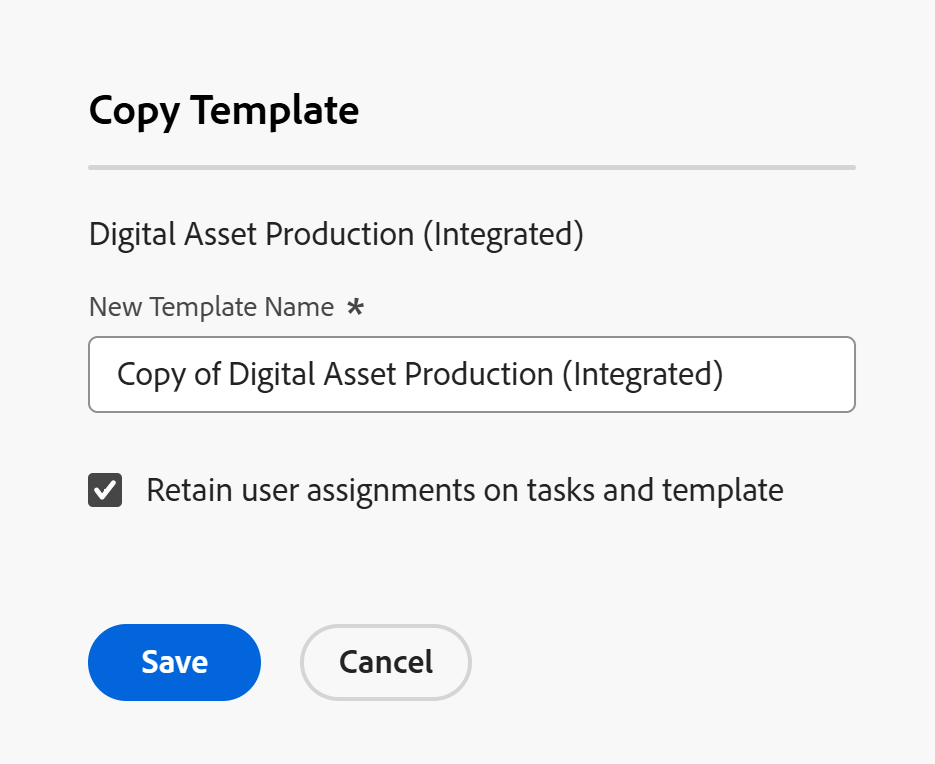
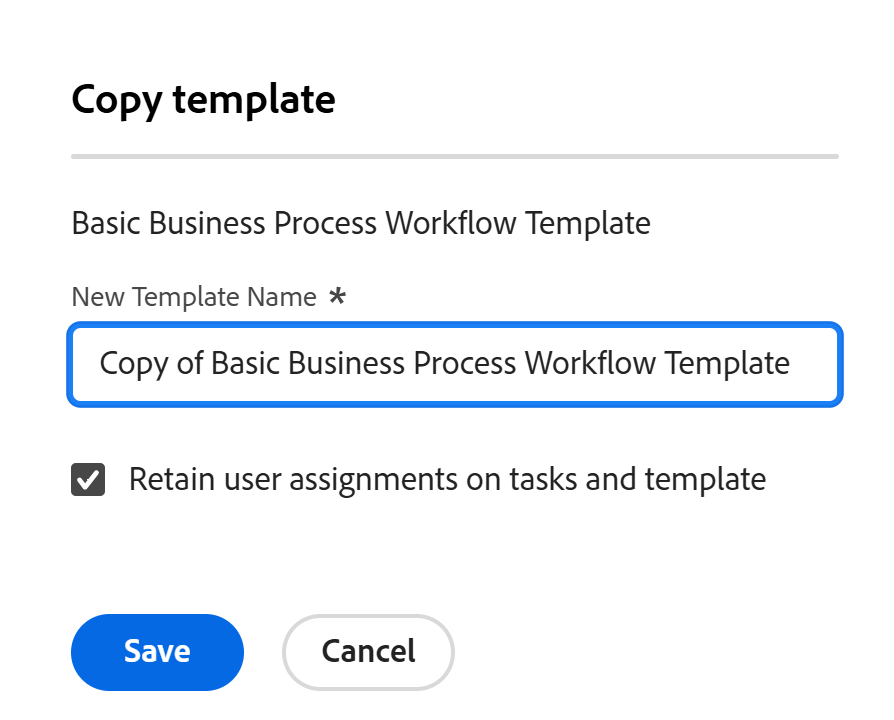
commit-aw-22-may

diff --git a/help/quicksilver/planning/general/planning-best-practices.md b/help/quicksilver/planning/general/planning-best-practices.md
@@ -207,12 +207,12 @@ Use the sharing feature to give appropriate permissions to employees to views an
     >
     >Right now, we don't have specific permissions for record types or records, so this means that all records in any of the record types are visible if you grant someone **View** access to the workspace.  
 
-<!--
+
 #### How should I manage permissions to record types?
 
 * ✅ Remember that users with Manage permissions to workspaces cannot have their permissions lowered for the record type. They will also inherit Manage permissions to the record type. You cannot give a user Manage permissions on the workspace but Contribute or View permissions on the record type. 
 * ✅ If you want users to have a lower permission level (for example, View permissions) for the record type than they have for the workspace, we recommend giving them Contribute permissions to the workspace. You can then, give them View permissions to the record type. 
--->
+* Removing a user from the record type's permissions still gives them at least View permissions to the workspace.
 
 #### How should I manage permissions to views? 
 

diff --git a/help/quicksilver/manage-work/projects/create-and-manage-templates/copy-template.md b/help/quicksilver/manage-work/projects/create-and-manage-templates/copy-template.md
@@ -68,7 +68,6 @@ The following items are never copied from an existing template to a new one:
 
 ## Copy a template
 
-
 <!--ensure steps and casing on the fields and buttons is accurate with unshim-->
 
 1. Go to the template that you want to copy.
@@ -76,11 +75,11 @@ The following items are never copied from an existing template to a new one:
 
    The **Copy Template** box opens.
 
-   <!--![Copy template box](assets/copy-template-box.png)-->
+   ![Copy template box](assets/copy-template-box.png)
 
 1. Specify a name for the template in the **New Template Name** field.
 
-   By default, the new name is `Copy of Original template name`.
+   By default, Workfront sets the new name following this format: `Copy of Original template name`.
 
 1. Select the **Retain user assignments on tasks and template** option, if you want to carry all task and template assignments from the original template to the new template. Template task assignments, and the Template Owner and Sponsor are transferred to the copied template. 
 1. Click **Save** to create a copy of the template.

diff --git a/help/quicksilver/timesheets/create-and-manage-timesheets/log-time.md b/help/quicksilver/timesheets/create-and-manage-timesheets/log-time.md
@@ -21,7 +21,7 @@ For more information about the type of hours you can log in Workfront, see [Mana
 
 ## Access requirements
 
-+++ Expand to view access requirements for the functionality in this article.
++++ Expand to view access requirements.
 
 You must have the following access to perform the steps in this article and log Project Specific hours:
 
@@ -35,7 +35,9 @@ You must have the following access to perform the steps in this article and log 
   </tr> 
   <tr> 
    <td role="rowheader">Adobe Workfront license*</td> 
-   <td> <p>New: Light or higher to log hours on a project, task, issue, or General Hours on a timesheet</p>
+   <td> <p>New:</p>
+   <ul><li> Light or higher to log hours on a task, issue, or General Hours on a timesheet</li>
+   <li>Standard to log hours on projects</li></ul>
    
    <p>Current: 
    <ul><li>Review or higher to log General Hours in a timesheet</li>
